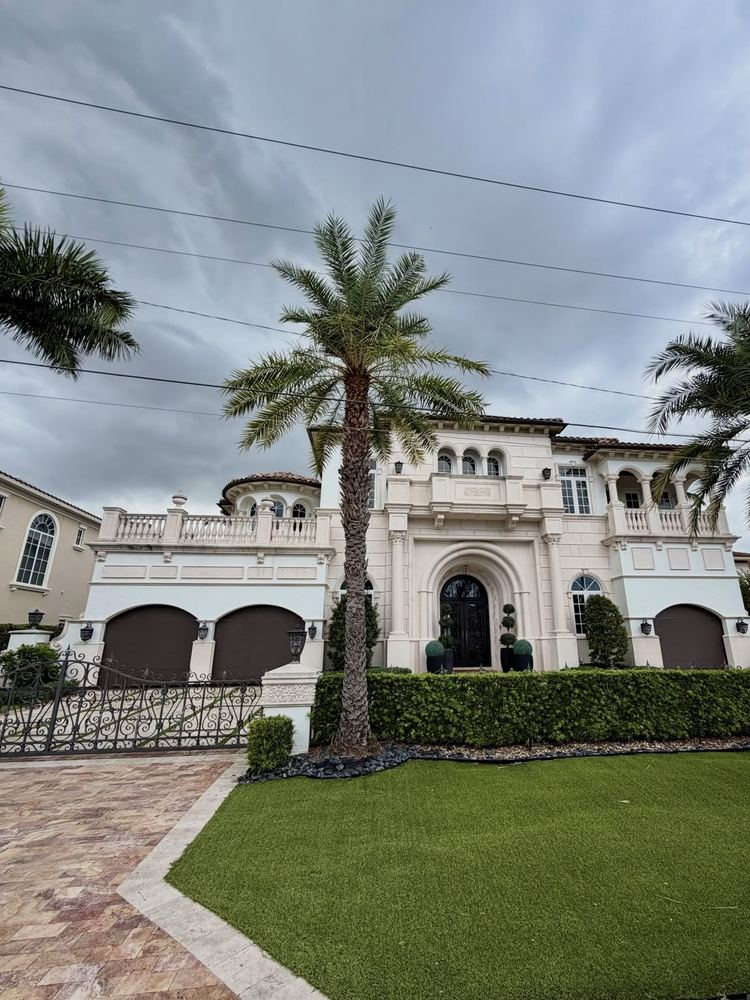
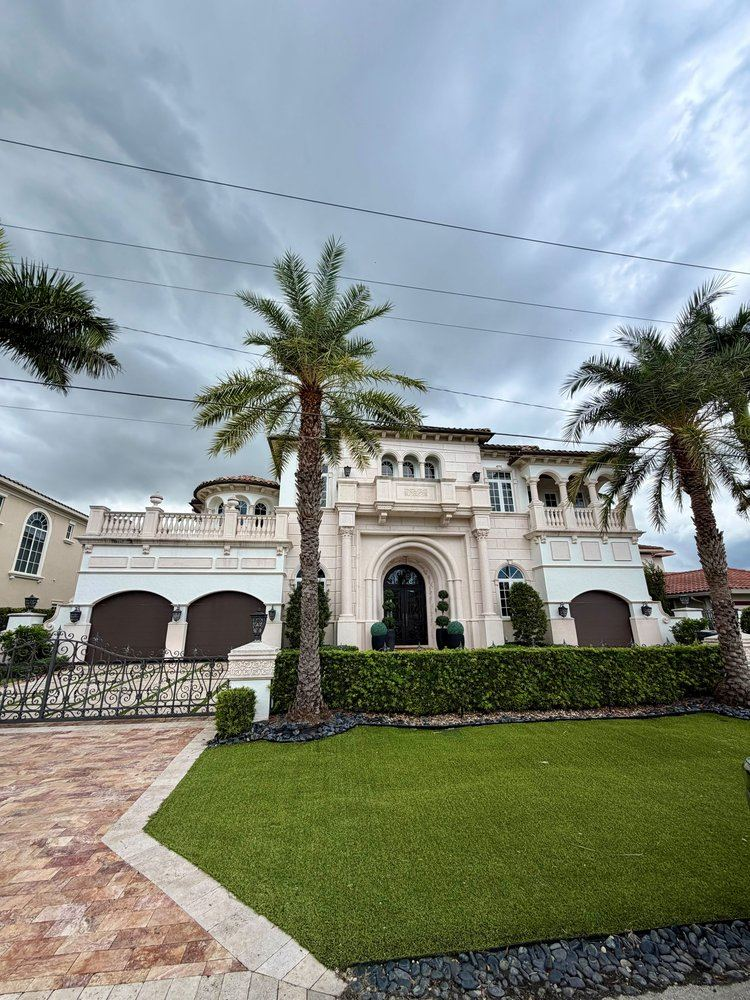
Add the client's WhatsApp photos to the gallery
Ten new photos (work-25 to 34) and sharper originals for work-11 and
work-13 (greydoor sign blurred again). Gallery now has 33 photos.

Claude-Session: https://claude.ai/code/session_01PCE9S2BU7trYqpVeAGSbTS

diff --git a/index.html b/index.html
@@ -447,8 +447,8 @@ const FOTOS = {
   power: "img/pressure-washing.jpg",
   solar: "img/solar.jpg",
   logo: "img/logo.png",
-  /* gallery, in display order (11-13: the client's Instagram picks; 14-24: the client's Site-2 folder) */
-  work: [11,12,13,14,15,16,17,18,19,20,21,22,23,24,1,2,3,4,5,6,7,8,9].map(n=>`img/work-${n}.jpg`)
+  /* gallery, in display order (11-13: the client's Instagram picks (11, 13 now from the WhatsApp originals); 14-24: Site-2 folder; 25-34: WhatsApp photos) */
+  work: [11,25,26,27,13,30,31,32,33,12,14,15,16,17,18,19,20,21,22,23,24,28,29,34,1,2,3,4,5,6,7,8,9].map(n=>`img/work-${n}.jpg`)
 };
 
 /* Which part of a photo stays visible when it is cropped */

diff --git a/README.md b/README.md
@@ -21,7 +21,7 @@ Suba na pasta `img/` com o nome exato abaixo (`.jpg`, de preferência na horizon
 | `img/solar.jpg` | Limpeza de painéis solares (foto do Pexels, uso comercial livre) |
 | `img/logo.png` | Logo redonda (topo e rodapé) |
 | `img/logo-full.png` | Logo completa (reserva) |
-| `img/work-1.jpg` a `img/work-9.jpg` e `img/work-11.jpg` a `img/work-24.jpg` | Galeria "Recent work" (ordem definida em `FOTOS.work`; work-11 a 13 são as fotos do Instagram que o cliente pediu e work-14 a 24 vêm da pasta Site-2 do cliente, 28/out) |
+| `img/work-1.jpg` a `img/work-9.jpg` e `img/work-11.jpg` a `img/work-34.jpg` | Galeria "Recent work" (ordem definida em `FOTOS.work`; work-11 a 13 são as fotos do Instagram que o cliente pediu e work-14 a 24 vêm da pasta Site-2 do cliente, 28/out; work-25 a 34 e as versões atuais de work-11 e 13 vêm das fotos que o cliente mandou por WhatsApp, 28/out) |
 
 As fotos de cada serviço aparecem na página e também no questionário de orçamento.
 
